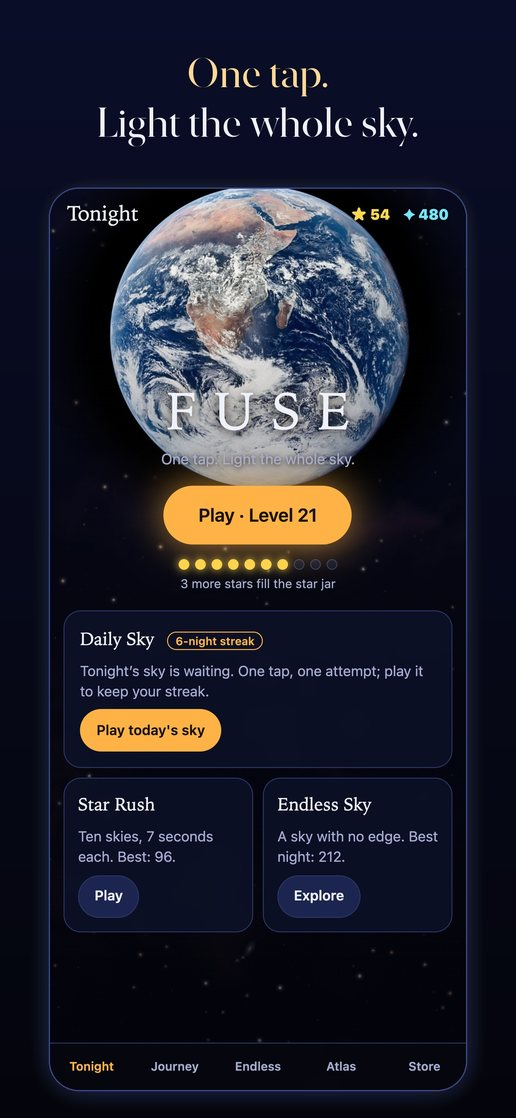
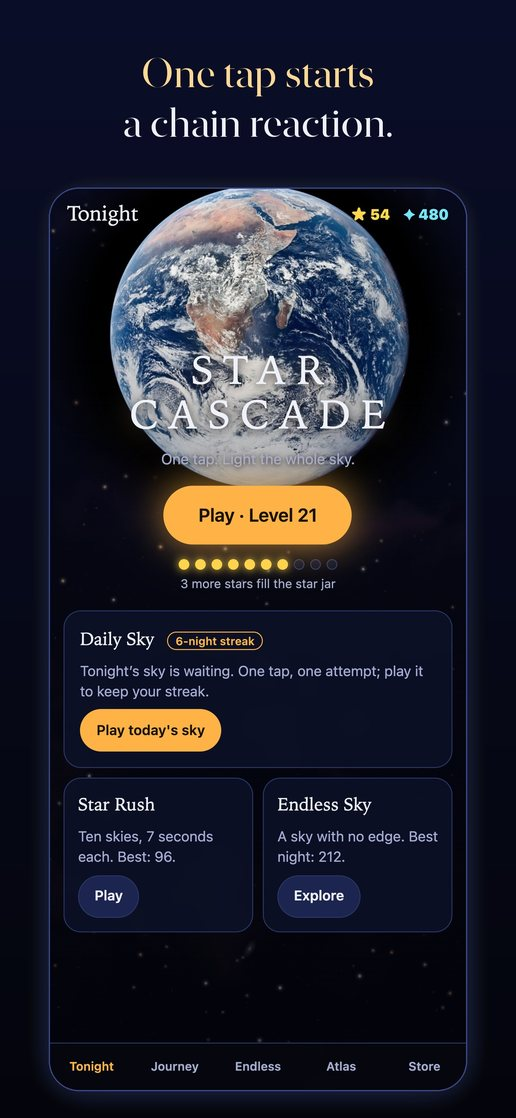
Rename the game Star Cascade

Changed region(s): [[0.2481, 0.3041, 0.7442, 0.3953], [0.186, 0.0304, 0.8062, 0.1521]]

diff --git a/privacy/index.html b/privacy/index.html
@@ -3,8 +3,8 @@
 <head>
 <meta charset="UTF-8">
 <meta name="viewport" content="width=device-width, initial-scale=1">
-<title>FUSE Privacy Policy</title>
-<meta name="description" content="How FUSE handles information.">
+<title>Star Cascade Privacy Policy</title>
+<meta name="description" content="How Star Cascade handles information.">
 <link rel="icon" href="../assets/favicon.svg" type="image/svg+xml">
 <style>
 :root{color-scheme:dark;--bg:#05070f;--ink:#eef0fa;--dim:#a2abd0;--gold:#ffb347;--line:#2a3566}
@@ -12,7 +12,7 @@
 body{background:var(--bg);color:var(--ink);font:17px/1.6 -apple-system,"SF Pro Text",system-ui,"Segoe UI",sans-serif}
 main{max-width:860px;margin:0 auto;padding:28px 20px 64px}
 nav{display:flex;flex-wrap:wrap;gap:18px;align-items:center;padding:6px 0 26px;font-size:.95rem}
-nav a{color:var(--dim);text-decoration:none} nav a:hover{color:var(--ink)} nav b{font:400 1.3rem "New York","Iowan Old Style",Georgia,serif;letter-spacing:.3em;margin-right:auto;color:var(--ink)}
+nav a{color:var(--dim);text-decoration:none} nav a:hover{color:var(--ink)} nav b{font:400 1.05rem "New York","Iowan Old Style",Georgia,serif;letter-spacing:.22em;margin-right:auto;color:var(--ink)}
 h1{font:400 2.3rem/1.15 "New York","Iowan Old Style",Georgia,serif;margin:6px 0 14px;text-wrap:balance}
 h2{font:400 1.35rem "New York","Iowan Old Style",Georgia,serif;margin:30px 0 8px}
 p,li{color:var(--dim)} p{margin:0 0 12px;max-width:68ch} ul{padding-left:1.2em;margin:0 0 12px} li{margin:4px 0} b,strong{color:var(--ink);font-weight:600}
@@ -27,30 +27,30 @@ small{color:var(--dim)}
 </head>
 <body>
 <main>
-<nav><b>FUSE</b><a href="../">The game</a><a href="../privacy/">Privacy</a><a href="../terms/">Terms</a><a href="../support/">Support</a></nav>
-<h1>FUSE Privacy Policy</h1>
+<nav><b>STAR CASCADE</b><a href="../">The game</a><a href="../privacy/">Privacy</a><a href="../terms/">Terms</a><a href="../support/">Support</a></nav>
+<h1>Star Cascade Privacy Policy</h1>
 <p><small>Last updated: 10 November 2026</small></p>
-<p class="lead">FUSE has no account and no server of its own. We, the makers of the game, collect nothing about you.</p>
+<p class="lead">Star Cascade has no account and no server of its own. We, the makers of the game, collect nothing about you.</p>
 <h2>What stays on your device</h2>
 <ul>
 <li>Your progress, stars, stardust, collected themes, settings and Daily Sky streak.</li>
-<li>Whether you own FUSE Complete, as last reported by the App Store.</li>
+<li>Whether you own Star Cascade Complete, as last reported by the App Store.</li>
 </ul>
 <p>This is kept in the app's own storage on your device and is included in your device's backups. It is not sent to us. Deleting the app deletes it.</p>
 <h2>Adverts in the free game</h2>
 <p>The free game shows adverts supplied by Google AdMob. To do that, Google's software in the app may collect and use information such as a device identifier, your approximate location derived from your network address, how you interact with adverts, and diagnostic data. Google explains this in <a href="https://policies.google.com/technologies/partner-sites">How Google uses information from sites or apps that use its services</a>.</p>
 <ul>
-<li>Where the law requires it, FUSE asks for your consent before any advert is requested, and you can change that choice later under Store, Settings, Advert privacy choices.</li>
-<li>iOS asks whether FUSE may track your activity across other companies' apps. FUSE plays exactly the same whichever you choose, and you can change it in iOS Settings, Privacy &amp; Security, Tracking.</li>
+<li>Where the law requires it, Star Cascade asks for your consent before any advert is requested, and you can change that choice later under Store, Settings, Advert privacy choices.</li>
+<li>iOS asks whether Star Cascade may track your activity across other companies' apps. Star Cascade plays exactly the same whichever you choose, and you can change it in iOS Settings, Privacy &amp; Security, Tracking.</li>
 <li>Adverts are not requested until you have finished a few levels.</li>
 </ul>
-<p><b>FUSE Complete removes adverts.</b> An owner of FUSE Complete is not shown adverts, and the game does not request them.</p>
+<p><b>Star Cascade Complete removes adverts.</b> An owner of Star Cascade Complete is not shown adverts, and the game does not request them.</p>
 <h2>Purchases</h2>
-<p>FUSE Complete is sold through Apple's App Store. Apple handles the payment; we never see your payment details. The game asks the App Store only whether your Apple Account owns FUSE Complete.</p>
+<p>Star Cascade Complete is sold through Apple's App Store. Apple handles the payment; we never see your payment details. The game asks the App Store only whether your Apple Account owns Star Cascade Complete.</p>
 <h2>Sharing</h2>
 <p>If you choose to share a Daily Sky result, the game hands a short line of text to the iOS share sheet. Nothing is shared unless you do it.</p>
 <h2>Children</h2>
-<p>FUSE is a general-audience puzzle game and is not directed at children under 13. We do not knowingly collect personal information from anyone.</p>
+<p>Star Cascade is a general-audience puzzle game and is not directed at children under 13. We do not knowingly collect personal information from anyone.</p>
 <h2>Changes and contact</h2>
 <p>If this policy changes, the date above changes with it. Questions: <a href="mailto:a.alameldien@gmail.com">a.alameldien@gmail.com</a>.</p>
 </main>

diff --git a/terms/index.html b/terms/index.html
@@ -3,8 +3,8 @@
 <head>
 <meta charset="UTF-8">
 <meta name="viewport" content="width=device-width, initial-scale=1">
-<title>FUSE Terms</title>
-<meta name="description" content="Terms for playing FUSE.">
+<title>Star Cascade Terms</title>
+<meta name="description" content="Terms for playing Star Cascade.">
 <link rel="icon" href="../assets/favicon.svg" type="image/svg+xml">
 <style>
 :root{color-scheme:dark;--bg:#05070f;--ink:#eef0fa;--dim:#a2abd0;--gold:#ffb347;--line:#2a3566}
@@ -12,7 +12,7 @@
 body{background:var(--bg);color:var(--ink);font:17px/1.6 -apple-system,"SF Pro Text",system-ui,"Segoe UI",sans-serif}
 main{max-width:860px;margin:0 auto;padding:28px 20px 64px}
 nav{display:flex;flex-wrap:wrap;gap:18px;align-items:center;padding:6px 0 26px;font-size:.95rem}
-nav a{color:var(--dim);text-decoration:none} nav a:hover{color:var(--ink)} nav b{font:400 1.3rem "New York","Iowan Old Style",Georgia,serif;letter-spacing:.3em;margin-right:auto;color:var(--ink)}
+nav a{color:var(--dim);text-decoration:none} nav a:hover{color:var(--ink)} nav b{font:400 1.05rem "New York","Iowan Old Style",Georgia,serif;letter-spacing:.22em;margin-right:auto;color:var(--ink)}
 h1{font:400 2.3rem/1.15 "New York","Iowan Old Style",Georgia,serif;margin:6px 0 14px;text-wrap:balance}
 h2{font:400 1.35rem "New York","Iowan Old Style",Georgia,serif;margin:30px 0 8px}
 p,li{color:var(--dim)} p{margin:0 0 12px;max-width:68ch} ul{padding-left:1.2em;margin:0 0 12px} li{margin:4px 0} b,strong{color:var(--ink);font-weight:600}
@@ -27,18 +27,18 @@ small{color:var(--dim)}
 </head>
 <body>
 <main>
-<nav><b>FUSE</b><a href="../">The game</a><a href="../privacy/">Privacy</a><a href="../terms/">Terms</a><a href="../support/">Support</a></nav>
-<h1>FUSE Terms</h1>
+<nav><b>STAR CASCADE</b><a href="../">The game</a><a href="../privacy/">Privacy</a><a href="../terms/">Terms</a><a href="../support/">Support</a></nav>
+<h1>Star Cascade Terms</h1>
 <p><small>Last updated: 10 November 2026</small></p>
-<p>These terms apply to your use of FUSE, an independent puzzle game by Gaborandi. By playing, you agree to them and to the App Store's own terms.</p>
+<p>These terms apply to your use of Star Cascade, an independent puzzle game by Gaborandi. By playing, you agree to them and to the App Store's own terms.</p>
 <h2>Personal use</h2>
-<p>FUSE is for your personal, non-commercial enjoyment. Please do not tamper with the game, its purchase or its adverts.</p>
-<h2>FUSE Complete</h2>
-<p>FUSE Complete is a single, non-consumable purchase processed by Apple. It opens Worlds 3 to 5, every sky theme, and removes adverts. It belongs to the Apple Account that bought it and can be brought back on another device with Restore purchases. Refunds are handled by Apple under its policies; a refunded purchase is withdrawn in the game.</p>
+<p>Star Cascade is for your personal, non-commercial enjoyment. Please do not tamper with the game, its purchase or its adverts.</p>
+<h2>Star Cascade Complete</h2>
+<p>Star Cascade Complete is a single, non-consumable purchase processed by Apple. It opens Worlds 3 to 5, every sky theme, and removes adverts. It belongs to the Apple Account that bought it and can be brought back on another device with Restore purchases. Refunds are handled by Apple under its policies; a refunded purchase is withdrawn in the game.</p>
 <h2>Adverts</h2>
 <p>The free game shows adverts supplied by Google. Some are offered in exchange for something in the game; whether one is available depends on your region, your connection and your privacy choices.</p>
 <h2>The game as it is</h2>
-<p>FUSE is provided as it is. We work to keep it correct and enjoyable, but we cannot promise it will be free of faults or always available, and to the extent the law allows we are not liable for losses arising from its use. Your progress is stored on your device; keep device backups if it matters to you.</p>
+<p>Star Cascade is provided as it is. We work to keep it correct and enjoyable, but we cannot promise it will be free of faults or always available, and to the extent the law allows we are not liable for losses arising from its use. Your progress is stored on your device; keep device backups if it matters to you.</p>
 <h2>Credits</h2>
 <p>Sky photographs are from NASA's image library and are credited in the game.</p>
 <h2>Contact</h2>

diff --git a/index.html b/index.html
@@ -3,7 +3,7 @@
 <head>
 <meta charset="UTF-8">
 <meta name="viewport" content="width=device-width, initial-scale=1">
-<title>FUSE: Star Chain Reaction Game</title>
+<title>Star Cascade: Chain Reaction</title>
 <meta name="description" content="One tap. Pick the star whose light wakes the most others and watch the whole sky catch. A puzzle game for iPhone.">
 <link rel="icon" href="./assets/favicon.svg" type="image/svg+xml">
 <style>
@@ -12,7 +12,7 @@
 body{background:var(--bg);color:var(--ink);font:17px/1.6 -apple-system,"SF Pro Text",system-ui,"Segoe UI",sans-serif}
 main{max-width:860px;margin:0 auto;padding:28px 20px 64px}
 nav{display:flex;flex-wrap:wrap;gap:18px;align-items:center;padding:6px 0 26px;font-size:.95rem}
-nav a{color:var(--dim);text-decoration:none} nav a:hover{color:var(--ink)} nav b{font:400 1.3rem "New York","Iowan Old Style",Georgia,serif;letter-spacing:.3em;margin-right:auto;color:var(--ink)}
+nav a{color:var(--dim);text-decoration:none} nav a:hover{color:var(--ink)} nav b{font:400 1.05rem "New York","Iowan Old Style",Georgia,serif;letter-spacing:.22em;margin-right:auto;color:var(--ink)}
 h1{font:400 2.3rem/1.15 "New York","Iowan Old Style",Georgia,serif;margin:6px 0 14px;text-wrap:balance}
 h2{font:400 1.35rem "New York","Iowan Old Style",Georgia,serif;margin:30px 0 8px}
 p,li{color:var(--dim)} p{margin:0 0 12px;max-width:68ch} ul{padding-left:1.2em;margin:0 0 12px} li{margin:4px 0} b,strong{color:var(--ink);font-weight:600}
@@ -27,11 +27,11 @@ small{color:var(--dim)}
 </head>
 <body>
 <main>
-<nav><b>FUSE</b><a href="./">The game</a><a href="./privacy/">Privacy</a><a href="./terms/">Terms</a><a href="./support/">Support</a></nav>
+<nav><b>STAR CASCADE</b><a href="./">The game</a><a href="./privacy/">Privacy</a><a href="./terms/">Terms</a><a href="./support/">Support</a></nav>
 <h1>One tap. Light the whole sky.</h1>
 <p class="lead">Every sky is a puzzle with one question: which star?</p>
 <p>Tap a star and it sends out a wave of light. Every star the wave touches lights up and sends its own. Choose well and one tap sets the whole sky burning. Choose the obvious star and you will usually be wrong.</p>
-<div class="shots"><img src="./assets/shot-1-home.jpg" alt="The FUSE home screen, with the Earth behind it" width="516" height="1118"><img src="./assets/shot-2-chain.jpg" alt="A chain of light spreading from star to star" width="516" height="1118"><img src="./assets/shot-4-perfect.jpg" alt="A perfect result uncovering the Carina Nebula" width="516" height="1118"></div>
+<div class="shots"><img src="./assets/shot-1-home.jpg" alt="The Star Cascade home screen, with the Earth behind it" width="516" height="1118"><img src="./assets/shot-2-chain.jpg" alt="A chain of light spreading from star to star" width="516" height="1118"><img src="./assets/shot-4-perfect.jpg" alt="A perfect result uncovering the Carina Nebula" width="516" height="1118"></div>
 <h2>What is in it</h2>
 <ul>
 <li><b>One tap, no hurry.</b> No timers, no lives. Touch and hold any star to see where its light would go.</li>
@@ -42,8 +42,8 @@ small{color:var(--dim)}
 <li><b>Real skies behind the game:</b> ten NASA photographs to collect with stardust you earn by playing.</li>
 </ul>
 <h2>What it costs</h2>
-<p>Worlds 1 and 2, the Daily Sky, Star Rush and Endless Sky are free, with occasional adverts. <b>FUSE Complete</b> is one purchase, kept for good: it opens Worlds 3 to 5, gives you every sky theme and removes every advert. There is no subscription.</p>
-<p><small>FUSE is made by Gaborandi. Sky photographs: NASA, ESA, CSA, STScI, JPL-Caltech, USGS, Space Science Institute and the Solar Dynamics Observatory.</small></p>
+<p>Worlds 1 and 2, the Daily Sky, Star Rush and Endless Sky are free, with occasional adverts. <b>Star Cascade Complete</b> is one purchase, kept for good: it opens Worlds 3 to 5, gives you every sky theme and removes every advert. There is no subscription.</p>
+<p><small>Star Cascade is made by Gaborandi. Sky photographs: NASA, ESA, CSA, STScI, JPL-Caltech, USGS, Space Science Institute and the Solar Dynamics Observatory.</small></p>
 </main>
 </body>
 </html>

diff --git a/support/index.html b/support/index.html
@@ -3,8 +3,8 @@
 <head>
 <meta charset="UTF-8">
 <meta name="viewport" content="width=device-width, initial-scale=1">
-<title>FUSE Support</title>
-<meta name="description" content="Help with FUSE.">
+<title>Star Cascade Support</title>
+<meta name="description" content="Help with Star Cascade.">
 <link rel="icon" href="../assets/favicon.svg" type="image/svg+xml">
 <style>
 :root{color-scheme:dark;--bg:#05070f;--ink:#eef0fa;--dim:#a2abd0;--gold:#ffb347;--line:#2a3566}
@@ -12,7 +12,7 @@
 body{background:var(--bg);color:var(--ink);font:17px/1.6 -apple-system,"SF Pro Text",system-ui,"Segoe UI",sans-serif}
 main{max-width:860px;margin:0 auto;padding:28px 20px 64px}
 nav{display:flex;flex-wrap:wrap;gap:18px;align-items:center;padding:6px 0 26px;font-size:.95rem}
-nav a{color:var(--dim);text-decoration:none} nav a:hover{color:var(--ink)} nav b{font:400 1.3rem "New York","Iowan Old Style",Georgia,serif;letter-spacing:.3em;margin-right:auto;color:var(--ink)}
+nav a{color:var(--dim);text-decoration:none} nav a:hover{color:var(--ink)} nav b{font:400 1.05rem "New York","Iowan Old Style",Georgia,serif;letter-spacing:.22em;margin-right:auto;color:var(--ink)}
 h1{font:400 2.3rem/1.15 "New York","Iowan Old Style",Georgia,serif;margin:6px 0 14px;text-wrap:balance}
 h2{font:400 1.35rem "New York","Iowan Old Style",Georgia,serif;margin:30px 0 8px}
 p,li{color:var(--dim)} p{margin:0 0 12px;max-width:68ch} ul{padding-left:1.2em;margin:0 0 12px} li{margin:4px 0} b,strong{color:var(--ink);font-weight:600}
@@ -27,10 +27,10 @@ small{color:var(--dim)}
 </head>
 <body>
 <main>
-<nav><b>FUSE</b><a href="../">The game</a><a href="../privacy/">Privacy</a><a href="../terms/">Terms</a><a href="../support/">Support</a></nav>
-<h1>FUSE Support</h1>
+<nav><b>STAR CASCADE</b><a href="../">The game</a><a href="../privacy/">Privacy</a><a href="../terms/">Terms</a><a href="../support/">Support</a></nav>
+<h1>Star Cascade Support</h1>
 <p class="lead">Write to <a href="mailto:a.alameldien@gmail.com">a.alameldien@gmail.com</a> with your iPhone model, iOS version and what happened. A screenshot helps.</p>
-<h2>I bought FUSE Complete and it is not unlocked</h2>
+<h2>I bought Star Cascade Complete and it is not unlocked</h2>
 <p>Open Store in the game and tap <b>Restore purchases</b>. The purchase belongs to the Apple Account that made it, so make sure that account is signed in on this device.</p>
 <h2>An advert reward was not offered or did not arrive</h2>
 <p>Adverts depend on your connection and on what is available in your region. If none is ready, the game simply does not offer one; try again a little later. A reward is given only when the advert has played far enough.</p>
@@ -39,7 +39,7 @@ small{color:var(--dim)}
 <h2>I am stuck on a level</h2>
 <p>Touch and hold a star to see its wave and the next one. After three tries without a star, the game offers to show you the best star for free.</p>
 <h2>I want to start again</h2>
-<p>Store, Settings, <b>Reset progress</b>, then tap again to confirm. This cannot be undone. It does not affect FUSE Complete.</p>
+<p>Store, Settings, <b>Reset progress</b>, then tap again to confirm. This cannot be undone. It does not affect Star Cascade Complete.</p>
 </main>
 </body>
 </html>

diff --git a/README.md b/README.md
@@ -1,6 +1,6 @@
-# FUSE website
+# Star Cascade website
 
-Public pages for FUSE: One Tap Star Puzzle, served by GitHub Pages at https://gaborandi.github.io/fuse-privacy/
+Public pages for Star Cascade: Chain Reaction (formerly FUSE), served by GitHub Pages at https://gaborandi.github.io/fuse-privacy/
 
 - `/` the game
 - `/privacy/` privacy policy
